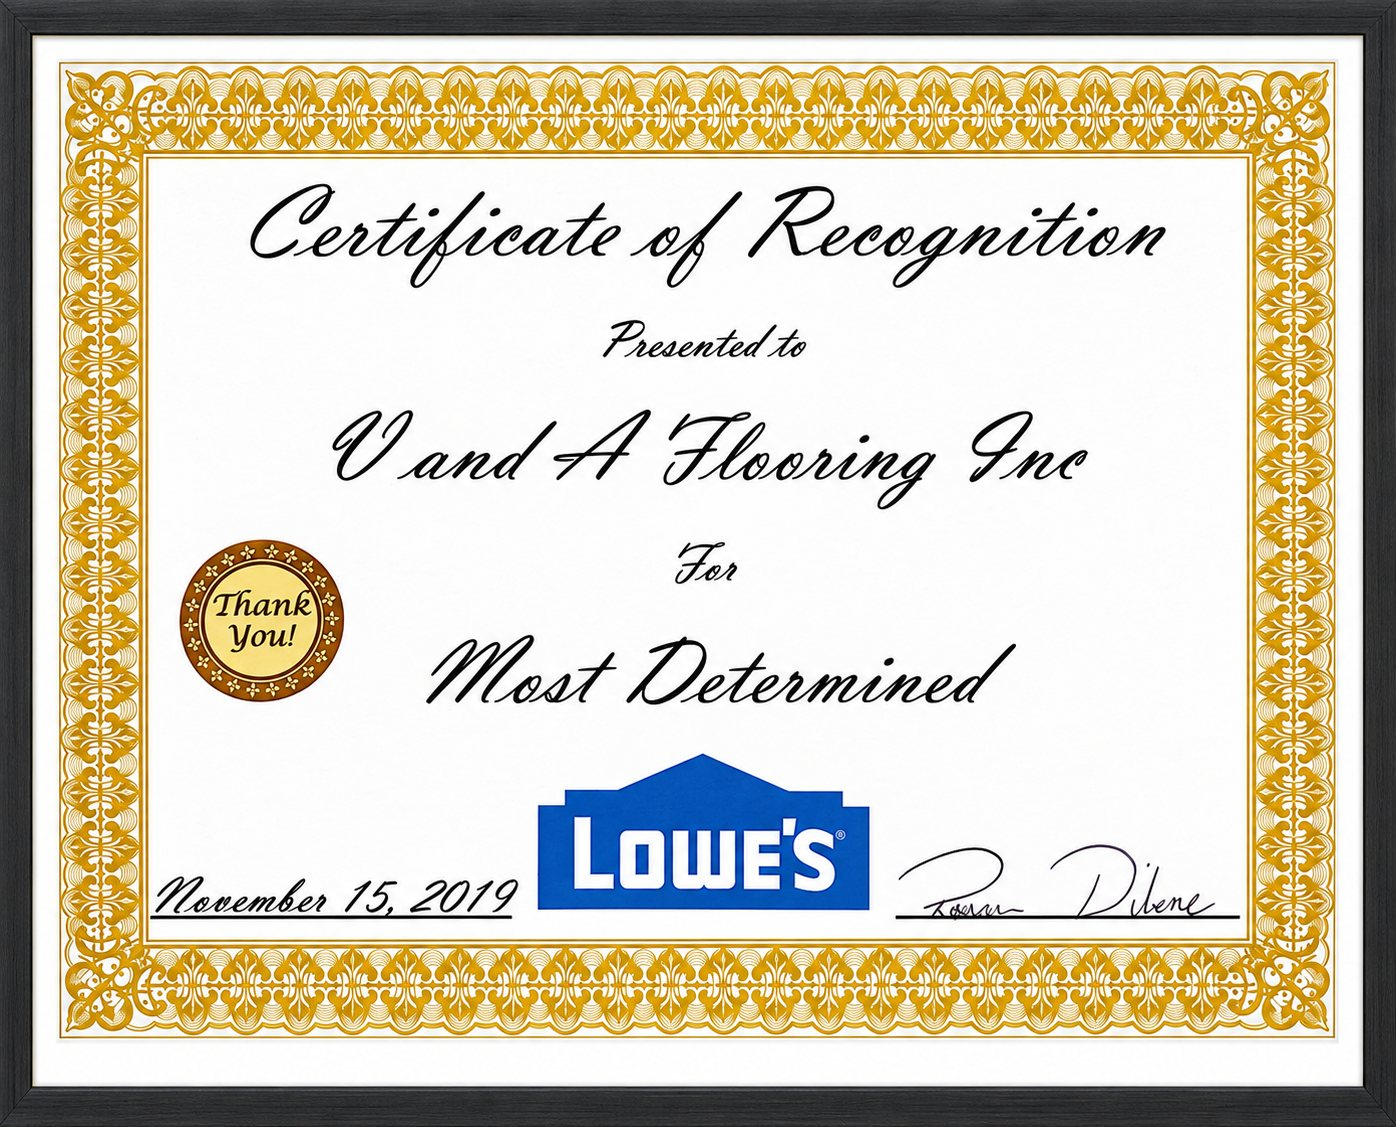
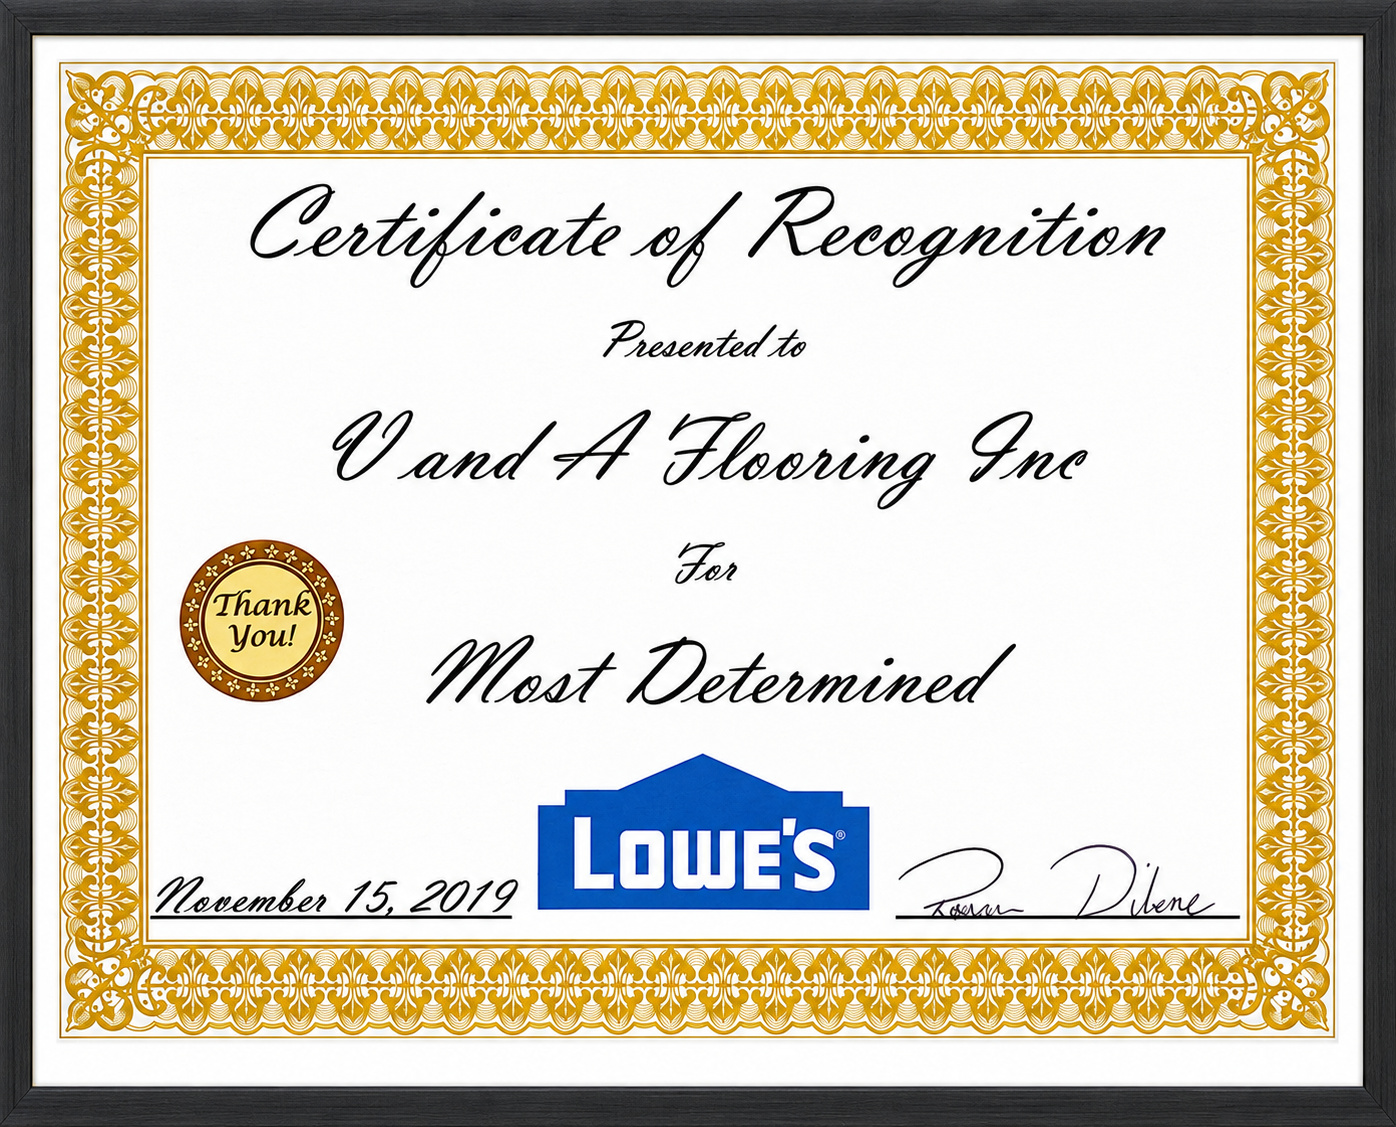
Sharper images: lossless originals as sources, deliver at quality 90, add 2560 size
Sources were JPEG-recompressed and then re-encoded at Next's default AVIF q75.

Claude-Session: https://claude.ai/code/session_0121JweBTLe6FsTKw6TgaNtZ

Changed region(s): [[0.0308, 0.0621, 0.9549, 0.9317]]

diff --git a/src/components/credentials/CredentialGallery.tsx b/src/components/credentials/CredentialGallery.tsx
@@ -21,6 +21,7 @@ export function CredentialGallery({ items, headingId }: { items: Credential[]; h
           <li key={c.title} className={`${styles.item} ${c.group === "team" ? styles.wide : ""}`}>
             <button type="button" className={styles.thumb} onClick={() => show(c)} data-cert-full={c.src.src}>
               <Image
+          quality={90}
                 src={c.src}
                 alt={c.alt}
                 sizes="(min-width: 64rem) 24rem, (min-width: 40rem) 50vw, 100vw"

diff --git a/next.config.ts b/next.config.ts
@@ -4,7 +4,9 @@ const nextConfig: NextConfig = {
   poweredByHeader: false,
   images: {
     formats: ["image/avif", "image/webp"],
-    deviceSizes: [640, 828, 1080, 1280, 1600, 1920],
+    deviceSizes: [640, 828, 1080, 1280, 1600, 1920, 2560],
+    // Real company photography: deliver at high quality (the default is 75).
+    qualities: [75, 90],
   },
   // The site moved to /products/* and /installation/*; keep every old URL working (308 permanent).
   async redirects() {

diff --git a/src/components/ui/Figure.tsx b/src/components/ui/Figure.tsx
@@ -25,6 +25,7 @@ export function Figure({ image, ratio = "4 / 3", sizes, priority, className, foc
     <figure className={[styles.figure, className].filter(Boolean).join(" ")}>
       <div className={styles.frame} style={{ aspectRatio: ratio }}>
         <Image
+          quality={90}
           src={image.src}
           alt={image.alt}
           fill

diff --git a/src/components/home/Showroom.tsx b/src/components/home/Showroom.tsx
@@ -63,6 +63,7 @@ export function Showroom() {
               <figure className={styles.figure}>
                 <div className={styles.frame}>
                   <Image
+          quality={90}
                     src={image.src}
                     alt={image.alt}
                     fill

diff --git a/src/components/home/Hero.tsx b/src/components/home/Hero.tsx
@@ -10,6 +10,7 @@ export function Hero() {
     <section className={styles.hero} aria-labelledby="hero-title">
       <div className={styles.media}>
         <Image
+          quality={90}
           src={img.src}
           alt={img.alt}
           fill
